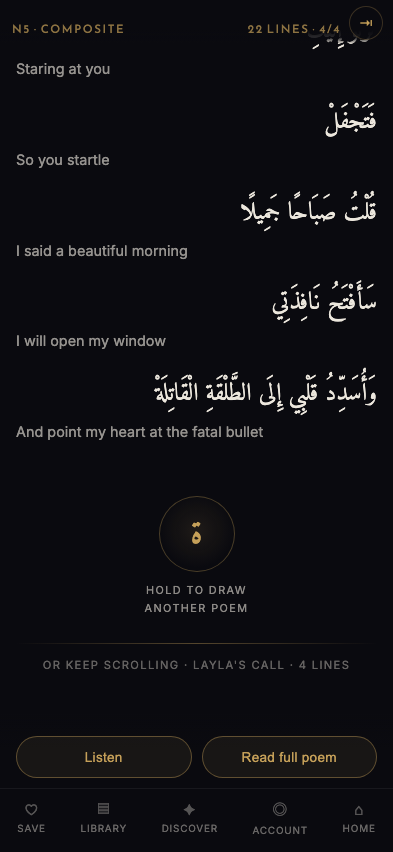
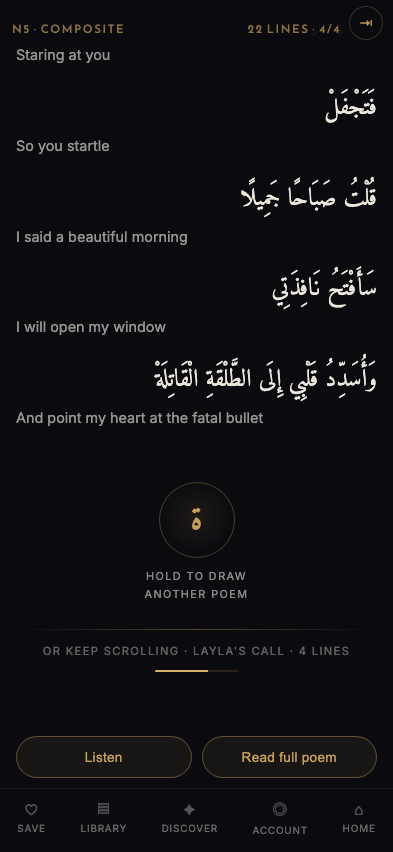
design(nav): working over-scroll continuation in N5 + findings writeup

diff --git a/design-review/poem-navigation/board.html b/design-review/poem-navigation/board.html
@@ -1,0 +1,115 @@
+<!doctype html>
+<html lang="en">
+  <head>
+    <meta charset="utf-8" />
+    <meta name="viewport" content="width=device-width, initial-scale=1" />
+    <title>Poem navigation — comparison board</title>
+    <style>
+      @import url('https://fonts.googleapis.com/css2?family=Inter:wght@400;500;600&display=swap');
+      body {
+        margin: 0;
+        padding: 28px 20px 60px;
+        background: #08080c;
+        color: #ece7dd;
+        font-family: Inter, system-ui, sans-serif;
+      }
+      h1 {
+        font-size: 1.1rem;
+        letter-spacing: 0.04em;
+        margin: 0 0 4px;
+      }
+      p.sub {
+        color: rgba(236, 231, 221, 0.5);
+        font-size: 0.82rem;
+        margin: 0 0 24px;
+        max-width: 760px;
+        line-height: 1.6;
+      }
+      .row {
+        display: flex;
+        gap: 18px;
+        overflow-x: auto;
+        padding-bottom: 12px;
+      }
+      figure {
+        margin: 0;
+        flex: 0 0 auto;
+      }
+      figcaption {
+        font-size: 0.72rem;
+        color: rgba(197, 160, 89, 0.85);
+        letter-spacing: 0.1em;
+        text-transform: uppercase;
+        margin: 0 0 8px;
+      }
+      figcaption b {
+        display: block;
+        color: rgba(236, 231, 221, 0.45);
+        text-transform: none;
+        letter-spacing: 0;
+        font-weight: 400;
+        margin-top: 3px;
+        max-width: 393px;
+      }
+      iframe {
+        width: 393px;
+        height: 852px;
+        border: 1px solid rgba(255, 255, 255, 0.09);
+        border-radius: 14px;
+        background: #0a0a0f;
+      }
+      .note {
+        margin-top: 34px;
+        font-size: 0.8rem;
+        line-height: 1.7;
+        color: rgba(236, 231, 221, 0.6);
+        max-width: 760px;
+      }
+      code {
+        color: #c5a059;
+        font-size: 0.92em;
+      }
+    </style>
+  </head>
+  <body>
+    <h1>Poem-to-poem navigation, once B·Flow owns the vertical axis</h1>
+    <p class="sub">
+      Same reading surface, same real bilingual poems, five navigation models. Each frame is a live
+      iPhone 16 viewport (393×852) — scroll and interact inside them. Append
+      <code>&amp;scrub=1</code> to any frame's URL to put the 56px scrubber lane back and watch the
+      poem box drop from 361px to 305px.
+    </p>
+
+    <div class="row">
+      <figure>
+        <figcaption>N1 · Lateral<b>Swipe sideways. Edge bands mark Safari's back-swipe.</b></figcaption>
+        <iframe src="./index.html?opt=n1&poem=3&guards=1" title="N1 Lateral"></iframe>
+      </figure>
+      <figure>
+        <figcaption>N2 · Rail<b>Explicit controls. Costs a whole row of chrome.</b></figcaption>
+        <iframe src="./index.html?opt=n2&poem=3" title="N2 Rail"></iframe>
+      </figure>
+      <figure>
+        <figcaption>N3 · Threshold<b>The boundary is content. No gesture at all.</b></figcaption>
+        <iframe src="./index.html?opt=n3&poem=0" title="N3 Threshold"></iframe>
+      </figure>
+      <figure>
+        <figcaption>N4 · Seal<b>Press and hold the poem's closing letter.</b></figcaption>
+        <iframe src="./index.html?opt=n4&poem=3" title="N4 Seal"></iframe>
+      </figure>
+      <figure>
+        <figcaption>N5 · Composite<b>Threshold + seal + a mid-poem escape.</b></figcaption>
+        <iframe src="./index.html?opt=n5&poem=3" title="N5 Composite"></iframe>
+      </figure>
+    </div>
+
+    <div class="note">
+      <strong>What the scrubber lane costs.</strong> Side by side on the same 22-line qasida:
+      <a style="color: #c5a059" href="./index.html?opt=n3&poem=3&scrub=1&readout=1">lane on</a>
+      (poem box 305px, type headroom ×1.007) versus
+      <a style="color: #c5a059" href="./index.html?opt=n3&poem=3&scrub=0&readout=1">lane off</a>
+      (361px, ×1.191). Headroom is how much larger the Arabic could be before the widest line needs
+      a shrink to survive the box — measured across all 44 verses of all four poems, not asserted.
+    </div>
+  </body>
+</html>

diff --git a/design-review/poem-navigation/index.html b/design-review/poem-navigation/index.html
@@ -405,11 +405,54 @@
           const t = document.createElement('div');
           t.className = 'threshold';
           const nxt = poems[(idx + 1) % poems.length];
-          t.innerHTML = `<hr /><div class="next-label">or keep scrolling · ${nxt.title} · ${nxt.arLines.length} lines</div>`;
+          t.innerHTML = `<hr /><div class="next-label">or keep scrolling · ${nxt.title} · ${nxt.arLines.length} lines</div>
+            <div class="pull-meter"><i></i></div>`;
           col.appendChild(t);
           setPoemName();
           report(sc);
         };
+
+        // "Keep scrolling" has to actually do something, or the threshold is decoration.
+        //
+        // This is the ONE place N5 reintroduces an end-of-scroll boundary — the thing the #707
+        // handoff warns about. Three things make it survivable here, and they're the same three
+        // that make an end-of-poem invitation viable at all:
+        //   1. it exists only at the very end, where B's dimmed-ahead verses have already shown
+        //      the reader the poem's whole shape, so arriving is anticipated, not a surprise;
+        //   2. it needs deliberate OVER-scroll past a hard stop, accumulated across events —
+        //      momentum from a fast flick decays at the stop instead of carrying through;
+        //   3. it's visible. The meter fills as you pull, so the reader can see the commit
+        //      coming and can stop.
+        let over = 0;
+        const NEED = 110;
+        sc.addEventListener(
+          'scroll',
+          () => {
+            if (sc.scrollTop < sc.scrollHeight - sc.clientHeight - 2) {
+              over = 0;
+              const m = sc.querySelector('.pull-meter i');
+              if (m) m.style.width = '0%';
+            }
+          },
+          { passive: true }
+        );
+        sc.addEventListener(
+          'wheel',
+          (e) => {
+            const atEnd = sc.scrollTop >= sc.scrollHeight - sc.clientHeight - 2;
+            if (!atEnd || e.deltaY <= 0) return;
+            over += e.deltaY;
+            const m = sc.querySelector('.pull-meter i');
+            if (m) m.style.width = Math.min(100, (over / NEED) * 100).toFixed(0) + '%';
+            if (over >= NEED) {
+              over = 0;
+              idx = (idx + 1) % poems.length;
+              draw();
+              sc.scrollTop = 0;
+            }
+          },
+          { passive: true }
+        );
         chrome();
         const esc = document.createElement('button');
         esc.className = 'escape';

diff --git a/design-review/poem-navigation/options.css b/design-review/poem-navigation/options.css
@@ -25,13 +25,11 @@
 }
 .edge-guard.l {
   left: 0;
-  background: linear-gradient(to right, rgba(226, 84, 84, 0.42), rgba(226, 84, 84, 0));
-  border-left: 1px solid rgba(226, 84, 84, 0.55);
+  background: linear-gradient(to right, rgba(226, 84, 84, 0.26), rgba(226, 84, 84, 0));
 }
 .edge-guard.r {
   right: 0;
-  background: linear-gradient(to left, rgba(226, 84, 84, 0.42), rgba(226, 84, 84, 0));
-  border-right: 1px solid rgba(226, 84, 84, 0.55);
+  background: linear-gradient(to left, rgba(226, 84, 84, 0.26), rgba(226, 84, 84, 0));
 }
 #app:not(.show-guards) .edge-guard {
   background: none;
@@ -188,6 +186,24 @@
   background: var(--gold-bright);
   box-shadow: 0 0 6px var(--gold-bright);
   pointer-events: none;
+}
+
+/* Fills as the reader over-scrolls past the end, so the commit to the next poem is visible
+   before it happens rather than after. */
+.pull-meter {
+  margin: 12px auto 0;
+  width: 84px;
+  height: 2px;
+  border-radius: 2px;
+  background: rgba(197, 160, 89, 0.16);
+  overflow: hidden;
+}
+.pull-meter i {
+  display: block;
+  height: 100%;
+  width: 0;
+  background: var(--gold-bright);
+  transition: width 0.08s linear;
 }
 
 /* ── N5 · Composite escape control ─────────────────────────────────────────── */

diff --git a/design-review/poem-navigation/README.md b/design-review/poem-navigation/README.md
@@ -1,0 +1,147 @@
+# Poem-to-poem navigation, once B·Flow owns the vertical axis
+
+Working previews for the conflict [#707](https://github.com/lesmartiepants/poetry-bil-araby/pull/707) creates: **B · Flow** makes the poem a continuous scroll, and today a vertical swipe changes poems (`PoemFeed.jsx` binds `pointerdown/move/up` on `window`). Two scroll axes on one screen.
+
+Live at **`/design-review/poem-navigation/board.html`** on any preview deploy. Nothing in `src/` changes.
+
+| | |
+|---|---|
+| `index.html?opt=` | `n1` lateral · `n2` rail · `n3` threshold · `n4` seal · `n5` composite |
+| `&poem=` | `0` 4-line epigram · `1` 8 lines · `2` 10 lines · `3` 22-line qasida |
+| `&scrub=1` | put the 56px scrubber lane back |
+| `&readout=1` | live box width, fit, type headroom |
+| `&dir=ltr` | N1 only — flip which way "next" is |
+
+Poems are the four real bilingual ones from production (`poems-bilingual.json`, verse-aligned translations). The API's `english` field is hardcoded `''` (`server.js:319`) and only ~13% of poems carry a `cachedTranslation`, so bilingual poems have to be hunted for — these were, and **bilingual rows are what everything below is measured against.**
+
+---
+
+## Can the scrubber go? Conditionally yes — and it's worth doing
+
+The rail is doing **four** jobs, not one. Sorting them is the whole answer.
+
+| Job | Where it lives | Under a flow layout |
+|---|---|---|
+| Reveal progress while reading | `scrubFillRef` height | **Collapses into scroll position** |
+| Drag to seek the reveal | `controller.scrubTo` | **Collapses into scrolling there** |
+| TTS playback position + seek | `ttsFollow(currentVerseIndex)`, `PoemReader.jsx:545` | **Does not collapse.** Scrolling to verse 9 does not seek the audio to verse 9 |
+| Insight paragraph render-progress **and** scroll position | `onInsightProgress` / `onInsightScrollMeta`, `PoemReader.jsx:250-270` | **Does not collapse.** Different surface, still needs an indicator |
+
+Two collapse, two need rehoming. Neither rehoming is exotic: audio position belongs in the transport row that `ReaderActions` already morphs into when you press Listen (a horizontal audio scrubber is the more conventional place for it anyway), and the insight overlay can carry its own indicator instead of borrowing the poem's.
+
+There's a sharper argument than redundancy, and it's the one to lead with. The rail currently means *"how far the reveal has got."* In a flow layout that stops being the same thing as *"where you are in the poem"* — the two can differ by a whole screen. The rail doesn't become **redundant**, it becomes **ambiguous**, and an ambiguous progress indicator is worse than none.
+
+### What removing it buys
+
+Measured across **all 44 verses of all four poems** at 393×852, via `&readout=1`:
+
+| | Poem box | Type headroom | Meaning |
+|---|---:|---:|---|
+| Lane on (today) | **305px** | **×1.007** | Arabic pinned at its `clamp()` floor with no room left |
+| Lane off | **361px** | **×1.191** | 19% of type size available before any line needs a shrink |
+
+*Headroom* = how much larger the Arabic could be before the widest line has to shrink to survive the box. Text width scales linearly with font size, so it's box ÷ widest-natural-width — measured, not asserted.
+
+**Concretely:** the `clamp(1.52rem, 5.7vw, 2.13rem)` floor in `SparklerStage.jsx:148` could rise from **1.52rem to ~1.81rem** — rendered Arabic **24.3px → ~29px** — without a single verse taking a shrink. At 393px, `5.7vw` is 22.4px, well under the floor, so the floor *is* the size on every phone. This is the whole prize.
+
+**A second cost nobody counted.** The narrow box also makes the *English* wrap more often. Compare [`shots/scrubber-on-393x852.png`](shots/scrubber-on-393x852.png) with [`shots/scrubber-off-393x852.png`](shots/scrubber-off-393x852.png): same poem, and with the lane, three verses spill their translation onto a second line. Bilingual rows get taller, so the lane costs **verses on screen** as well as type size. #707 measured the lane's cost to width; it also has a height cost.
+
+---
+
+## The options
+
+### N1 · Lateral — swipe sideways
+
+<img src="shots/n1-lateral-393x852.png" width="300">
+
+The axis is latched at `pointerdown` and held for the whole gesture, per the #707 handoff. Red bands mark iOS Safari's ~20px interactive back-swipe zone; gestures starting there are refused rather than fought, because a page cannot reliably beat the system gesture.
+
+**On direction, I have an opinion and it's the opposite of the obvious one.** Arabic is RTL, so the next item sits to the *left* and advancing means dragging content *rightward* — a left-to-right swipe. But Safari's back gesture is a left-to-right swipe from the left edge. **RTL "next" and system "back" are the same motion.** `?dir=ltr` (swipe leftward for next) has no such collision. So: if lateral ships, it should be **LTR-direction**, which also matches the decision to move product chrome to LTR. Poem text is RTL; navigation is chrome.
+
+**Trades:** a whole axis, again. It's still a directional swipe that can fire during a diagonal drag, and it can't use the screen edges. It also gives up the one thing horizontal paging is usually good for — you can't peek at the next poem without committing, because there's nothing to peek at until you've moved.
+
+### N2 · Rail — explicit controls
+
+<img src="shots/n2-rail-393x852.png" width="300">
+
+**Buys:** unambiguous, discoverable, keyboard- and screen-reader-friendly for free, and zero gesture arbitration.
+
+**Trades:** a full 52px row above the reader actions — on a screen where #707 established that 56px of *width* was worth an argument, spending 52px of *height* on navigation chrome is hard to justify. It also reads as a document viewer rather than a poetry app.
+
+### N3 · Threshold — the boundary is content
+
+<img src="shots/n3-threshold-393x852.png" width="300">
+
+Poems run continuously. A marked boundary announces the next poem **and its length** before you reach it, with a skip control.
+
+**Buys: there is no gesture to arbitrate, at all.** Scroll never changes meaning, so the latch problem doesn't exist — not "is handled correctly", *doesn't exist*. This is the only option where that's true. It also extends #707's best property: the reader can see what's coming and how long it is before committing.
+
+**Trades, and one is serious.** With two poems on screen at a boundary, **which poem do Save / Listen / Read full poem act on?** The actions bar is global chrome; at the threshold the "current poem" is genuinely ambiguous. It also makes going back mean scrolling up through the whole previous poem, and it makes "how far into *this* poem am I" unanswerable — which argues for the scrubber's removal but does remove a real signal.
+
+### N4 · Seal — a deliberate act at the end
+
+<img src="shots/n4-seal-393x852.png" width="300"> <img src="shots/n4-seal-charging-393x852.png" width="300">
+
+*Right: mid-hold. The ring fills, the letter takes the sparkler's glow.*
+
+At the end of the poem sits the letter it closes on. **Press and hold** — the ring charges over 620ms, the letter sparks, and the next poem is drawn. It reuses the app's existing sparkler vocabulary, it's a single thumb-reachable target near the bottom, and it cannot fire by accident.
+
+**It only exists at the end**, which is the point. #707's dimmed-ahead verses put the poem's whole shape on screen from the first frame, so reaching the end is an anticipated event, not a surprise. That's precisely what makes an end-of-poem invitation work here and not in a fixed window.
+
+**A finding that changed the design.** The first version offered *"another poem that closes on ﻝ"* — a rhyme-kinship draw, playing on the قافية the corpus is named for. **The data won't carry it.** A true qasida rhymes every line on one letter; these poems don't. Across the sample the 22-line poem lands on ل just 5 times in 22, and its final letter is **ة** — a feminine-noun suffix that ends a large share of Arabic words. "Another poem that closes on ة" is noise wearing the costume of structure. So the letter became **this poem's own sign-off** rather than a filter on the next. If a themed draw is wanted later, the categorisation facets (`/api/categories` — mood, topic, motif) are real data and would carry it; the rhyme letter is not.
+
+**Trades:** it's only reachable at the end. A reader four verses into a 40-line qasida who wants out has nothing — which is why N5 adds an escape. And a press-and-hold is undiscoverable without the caption, so the caption is load-bearing, not decoration.
+
+### N5 · Composite — threshold + seal + escape
+
+<img src="shots/n5-composite-393x852.png" width="300">
+
+One poem at a time. At its end: the seal for a deliberate draw, an over-scroll continuation for a reader who just wants to keep going, and a top-right escape for bailing out mid-poem.
+
+The over-scroll is the one place N5 reintroduces an end-of-scroll boundary. Three things make it survivable, and they're the same three that make the whole end-of-poem idea work: it exists only at the very end where arrival is anticipated; it needs ~110px of scroll **accumulated past a hard stop**, so flick momentum decays at the stop instead of carrying through; and the meter fills visibly, so the reader sees the commit coming and can stop.
+
+---
+
+## Recommendation: N5, built on N3's principle
+
+**Take N5.** The reasoning, shortest path:
+
+**Anything that shares the vertical axis loses.** The #707 handoff is right that latching at `pointerdown` is necessary — and also that a latched boundary is still a boundary a reader can cross by accident. N1 moves the problem to a different axis rather than removing it, and lands RTL "next" on top of the system back gesture. N2 removes the problem honestly but bills 52px of height for it.
+
+**N3 has the best idea in the set and one flaw that disqualifies it alone.** Making the boundary *content* rather than *gesture* is the real insight — it doesn't manage the conflict, it dissolves it. But global reader actions over a continuous stream leave Save and Listen pointing at an ambiguous target, and that's not a polish item.
+
+**N5 keeps N3's idea and fixes exactly that.** One poem is current at a time, so the actions are never ambiguous, while forward motion still costs nothing more than continuing to read. And the seal answers what the owner actually asked for: a deliberate, engaging act that summons a poem, in the app's own sparkler idiom, at the moment the reader has arrived somewhere.
+
+**Then remove the scrubber**, rehoming audio seek into the transport row and giving the insight overlay its own indicator. That reclaims 56px, which buys **~19% Arabic type size** and fewer wrapped English lines. That is the largest single win available on this screen and it is the owner's stated goal.
+
+If only one thing ships: **N3's threshold principle**, because it's the part that makes the axis conflict go away rather than manage it.
+
+---
+
+## What this preserves, and what it doesn't
+
+| Must keep | Status |
+|---|---|
+| Sparkler reveal + Next Verse advance | Preserved in shape. **See the caveat below** |
+| Poem body is not a tap target | **Preserved.** No option attaches a handler to the poem body; the seal is its own element |
+| Reader actions (Listen / Read full poem) | Present in every option |
+| Bottom nav (Save / Library / Discover / Account) | Present in every option, all five items |
+| `data-owns-gesture` opt-out | N1 honours it. **N2–N5 make it unnecessary for navigation** — they bind no global pointer handler, so a drag inside a floating panel cannot page the poem underneath by construction |
+| الميزان draw inspector | Rides on `data-owns-gesture` (`DiscoveryDrawInspector.jsx:615`). Under N2–N5 there is no global gesture to opt out of, so its drag is safe by construction rather than by opt-out |
+
+**The caveat, stated plainly.** These prototypes use a **CSS dim-to-reveal**, not the real GSAP timeline in `useSparklerReveal.js`. They will tell you how navigation *feels*; they will **not** tell you how the sparkle feels. That has to be rebuilt against the real controller before anyone commits — the same warning #707 gave about B, and it still applies.
+
+**One thing that genuinely changes, not a quiet drop:** in a flow layout the reveal is driven by scroll position rather than by a discrete advance. Next Verse survives as "scroll the next unrevealed verse into view", but the reveal stops being a *window* and becomes a *threshold the reader crosses*. That is a real change to the app's signature mechanic and it belongs in the decision, not in a footnote.
+
+---
+
+## Verify it yourself
+
+```bash
+python3 -m http.server 4178          # from the repo root; `serve` drops query strings
+open http://localhost:4178/design-review/poem-navigation/board.html
+```
+
+The scrubber numbers come from `window.__measure()` on any option page, or `&readout=1` for the on-screen version.
+
+Read-only throughout. No database is touched; `poems-bilingual.json` is a static capture.
